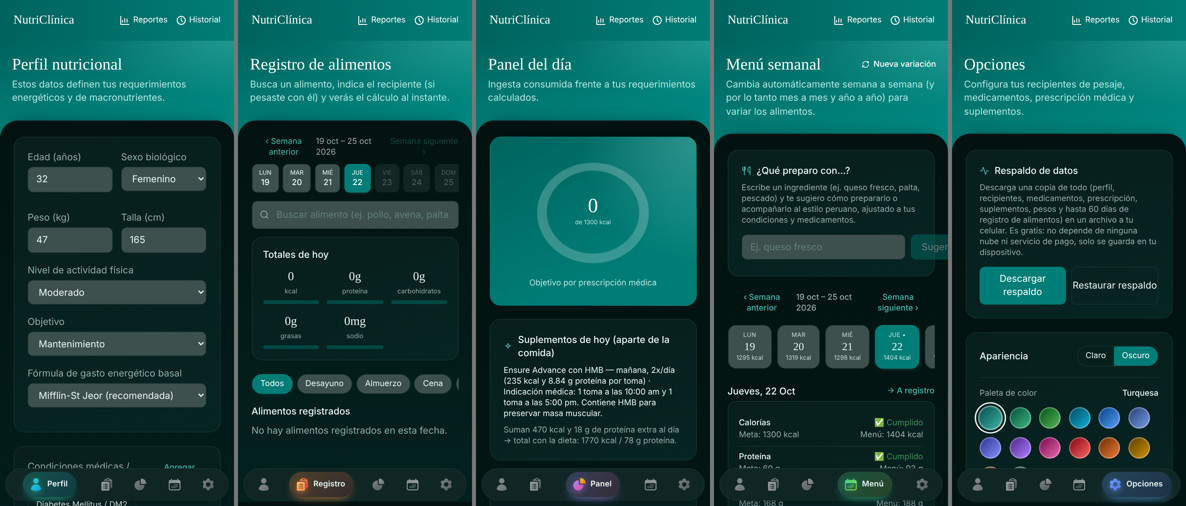
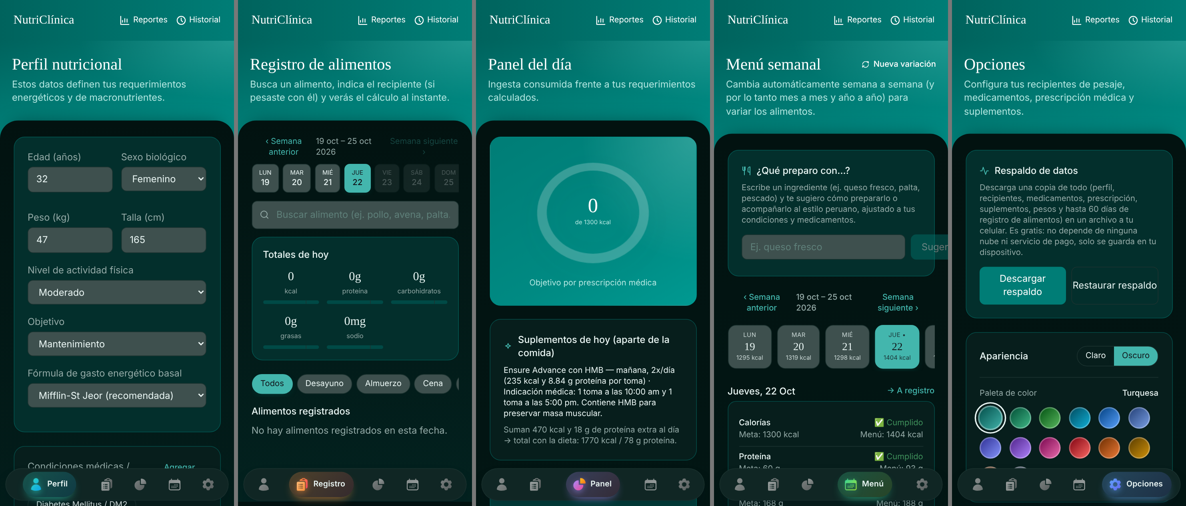
Tarjetas con tonos alternados, tarjeta principal más clara y chips activos más claros en oscuro
Claude-Session: https://claude.ai/code/session_01Ry9ro83pXd3TsfEs66nLcN

diff --git a/index.html b/index.html
@@ -77,6 +77,7 @@
   body[data-tema="oscuro"] {
     --input-bg: color-mix(in srgb, var(--surface) 78%, white);
     --brand-text: var(--accent);
+    --chip-active-bg: var(--accent); --chip-active-text: var(--on-accent);
     --accent-energy: #E08A57; --accent-protein: #D9B563; --accent-carb: #83B276; --accent-fat: #77A0C7;
     --warn: #E58080; --warn-bg: #3A2328;
   }
@@ -103,7 +104,19 @@
     --chip-border: color-mix(in srgb, var(--on-hero) 32%, transparent); --input-bg: color-mix(in srgb, var(--on-hero) 14%, transparent); --warn: #FFC2B8;
     background:
       radial-gradient(90% 120% at 100% 0%, color-mix(in srgb, var(--tone-300) 34%, transparent), transparent 62%),
-      linear-gradient(150deg, var(--hero) 0%, var(--hero-2) 68%, var(--tone-600) 100%); }
+      linear-gradient(150deg, var(--card-a) 0%, var(--card-b) 62%, var(--card-c) 100%); }
+  /* La tarjeta principal es un paso más clara que el encabezado para distinguirse de él. */
+  body { --card-a: var(--tone-700); --card-b: var(--tone-600); --card-c: var(--tone-500); }
+  body[data-tema="oscuro"] { --card-a: var(--tone-600); --card-b: color-mix(in srgb, var(--tone-600) 55%, var(--tone-500)); --card-c: var(--tone-500); }
+  /* Tarjetas de cada pantalla: tres tonos de la paleta que se alternan, para que se distingan una de otra. */
+  body { --cardtone-1: var(--tone-100); --cardtone-2: var(--surface); --cardtone-3: color-mix(in srgb, var(--tone-200) 62%, var(--surface));
+         --cardline: color-mix(in srgb, var(--tone-300) 55%, transparent); }
+  body[data-tema="oscuro"] { --cardtone-1: var(--tint); --cardtone-2: var(--surface); --cardtone-3: color-mix(in srgb, var(--selected) 72%, var(--surface));
+         --cardline: color-mix(in srgb, var(--tone-500) 38%, transparent); }
+  .nutri-sheet > .nutri-panel:not(.nutri-hero-card) { border-color: var(--cardline); }
+  .nutri-sheet > .nutri-panel:not(.nutri-hero-card):nth-child(3n+1) { background: var(--cardtone-1); }
+  .nutri-sheet > .nutri-panel:not(.nutri-hero-card):nth-child(3n+2) { background: var(--cardtone-2); }
+  .nutri-sheet > .nutri-panel:not(.nutri-hero-card):nth-child(3n+3) { background: var(--cardtone-3); }
   .nutri-swatch { width: 36px; height: 36px; border-radius: 50%; border: 0; box-shadow: inset 0 0 0 2px rgb(255 255 255 / .28); transition: transform .25s cubic-bezier(.34,1.56,.64,1), box-shadow .25s; }
   .nutri-swatch[aria-pressed="true"] { transform: scale(1.14); box-shadow: inset 0 0 0 2px rgb(255 255 255 / .35), 0 0 0 3px var(--panel-bg), 0 0 0 5px var(--ink); }
   .nutri-ink { color: var(--ink); }
